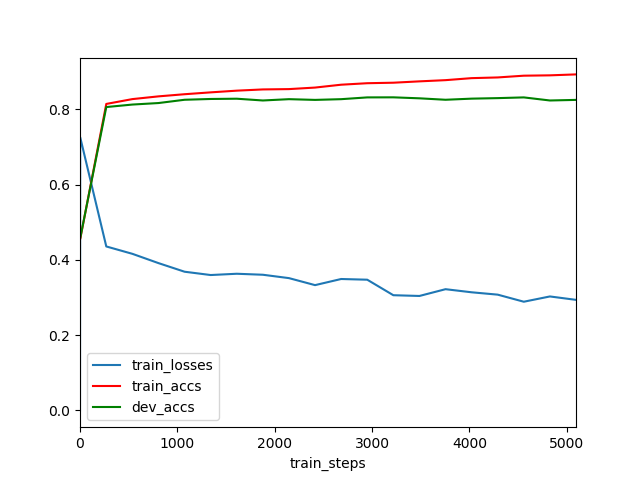
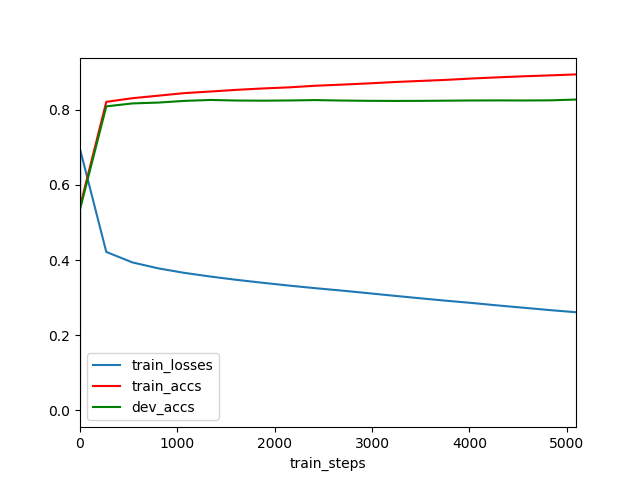
reorg results

Changed region(s): [[0.125, 0.2812, 0.9062, 0.6562], [0.1562, 0.1562, 0.9062, 0.2812], [0.0625, 0.5312, 0.125, 0.5625]]

diff --git a/text_model/model.py b/text_model/model.py
@@ -136,15 +136,16 @@ if use_pretrained:
 # BUILD THE MODEL
 
 class FFModel(nn.Module):
-    def __init__(self,embedding_dim,vocab_size,bottleneck_feats,window_size=3,num_classes=1):
+    def __init__(self,embedding_dim,vocab_size,bottleneck_feats,use_pretrained=True,window_size=3,num_classes=1):
         super(FFModel, self).__init__()
         self.bottleneck_feats = bottleneck_feats
         self.window_size = window_size
         self.num_classes = num_classes
 
         self.embedding = nn.Embedding(vocab_size+2,embedding_dim)
-        self.embedding.load_state_dict({'weight': weights_matrix})
-        self.embedding.weight.requires_grad = False
+        if use_pretrained:
+            self.embedding.load_state_dict({'weight': weights_matrix})
+            self.embedding.weight.requires_grad = False
         self.fc1 = nn.Linear(embedding_dim*self.window_size,self.bottleneck_feats)
         self.relu = nn.ReLU()
         self.fc2 = nn.Linear(self.bottleneck_feats,self.num_classes)
@@ -257,7 +258,7 @@ if model_type == 'lstm':
 
 elif model_type == 'simpleff':
     bottleneck_feats = cfg['bottleneck_feats']
-    model = FFModel(embedding_dim,vocab_size,bottleneck_feats)
+    model = FFModel(embedding_dim,vocab_size,bottleneck_feats,use_pretrained=use_pretrained)
 
 
 loss_fn = nn.BCELoss()
